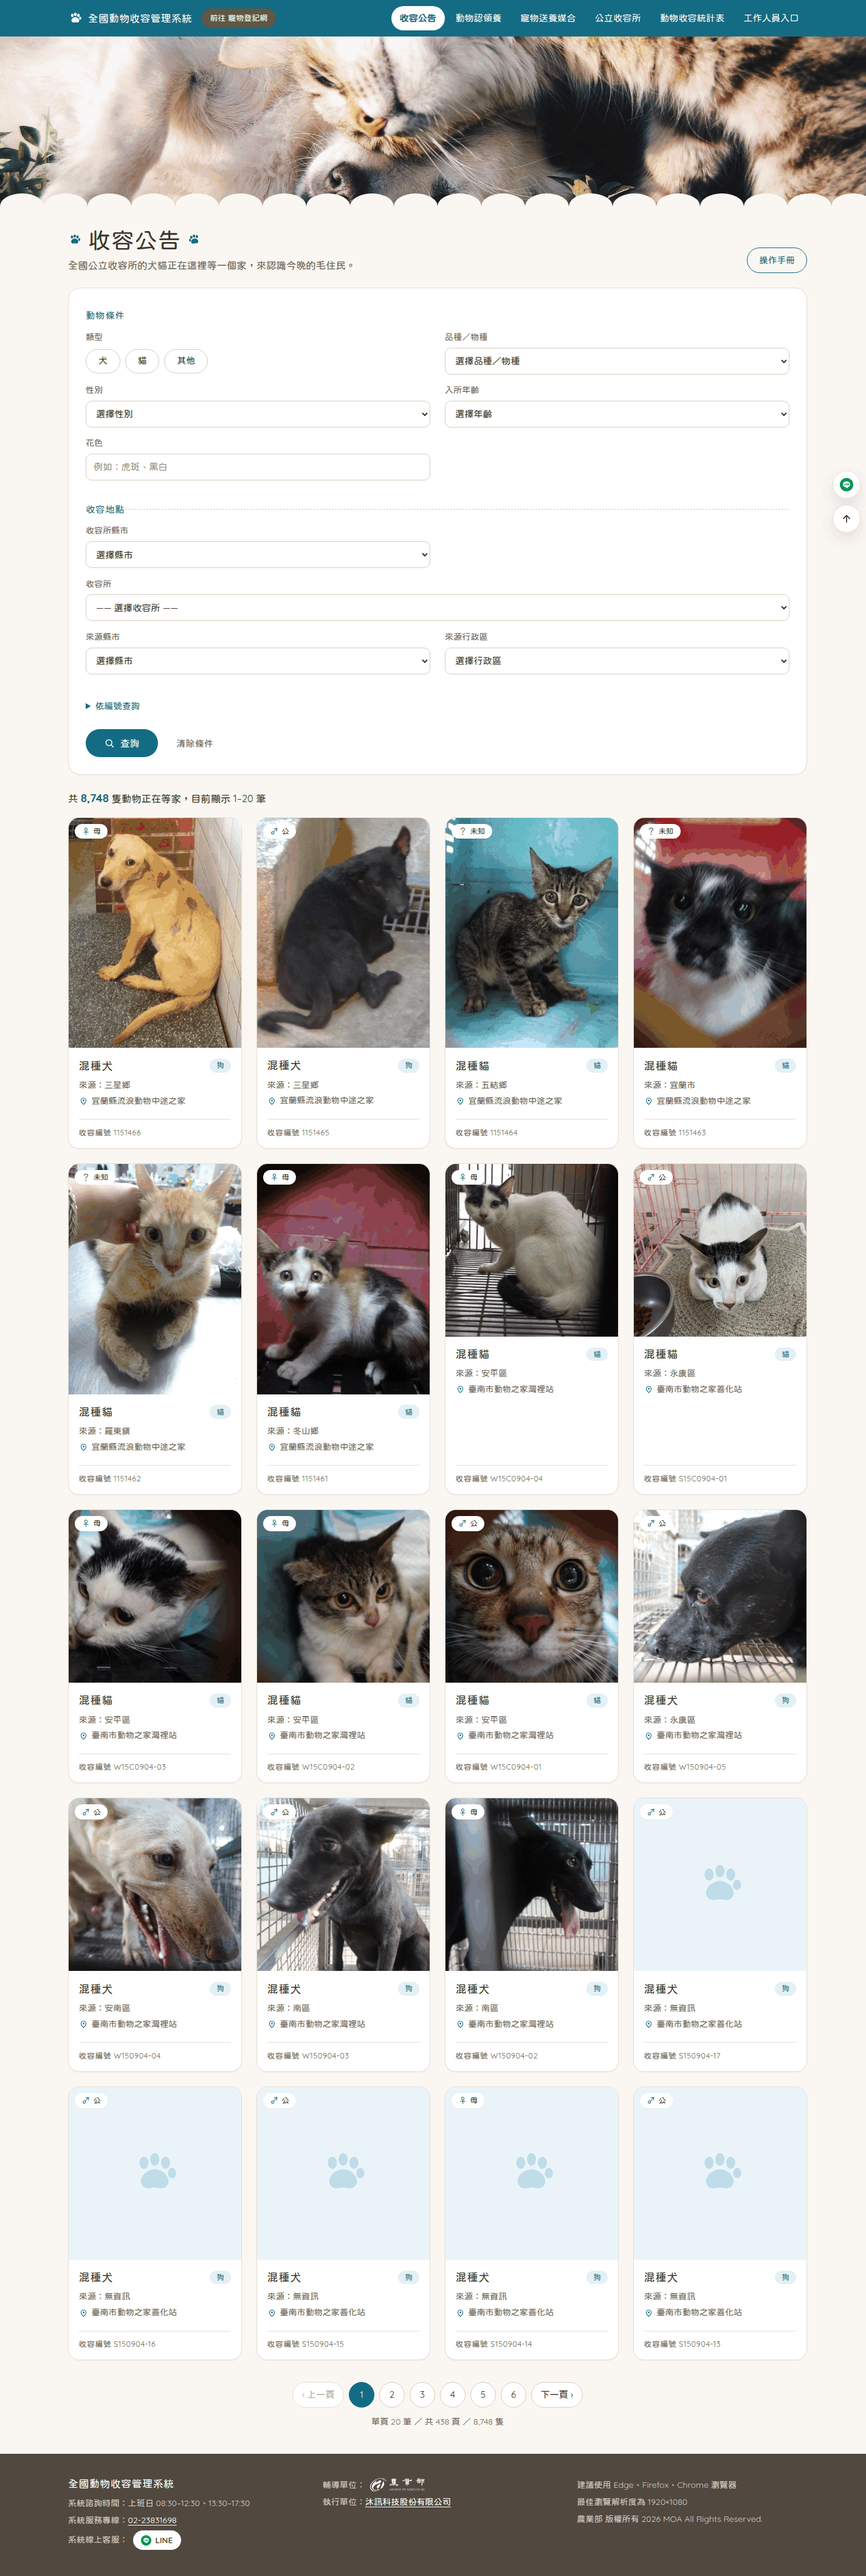
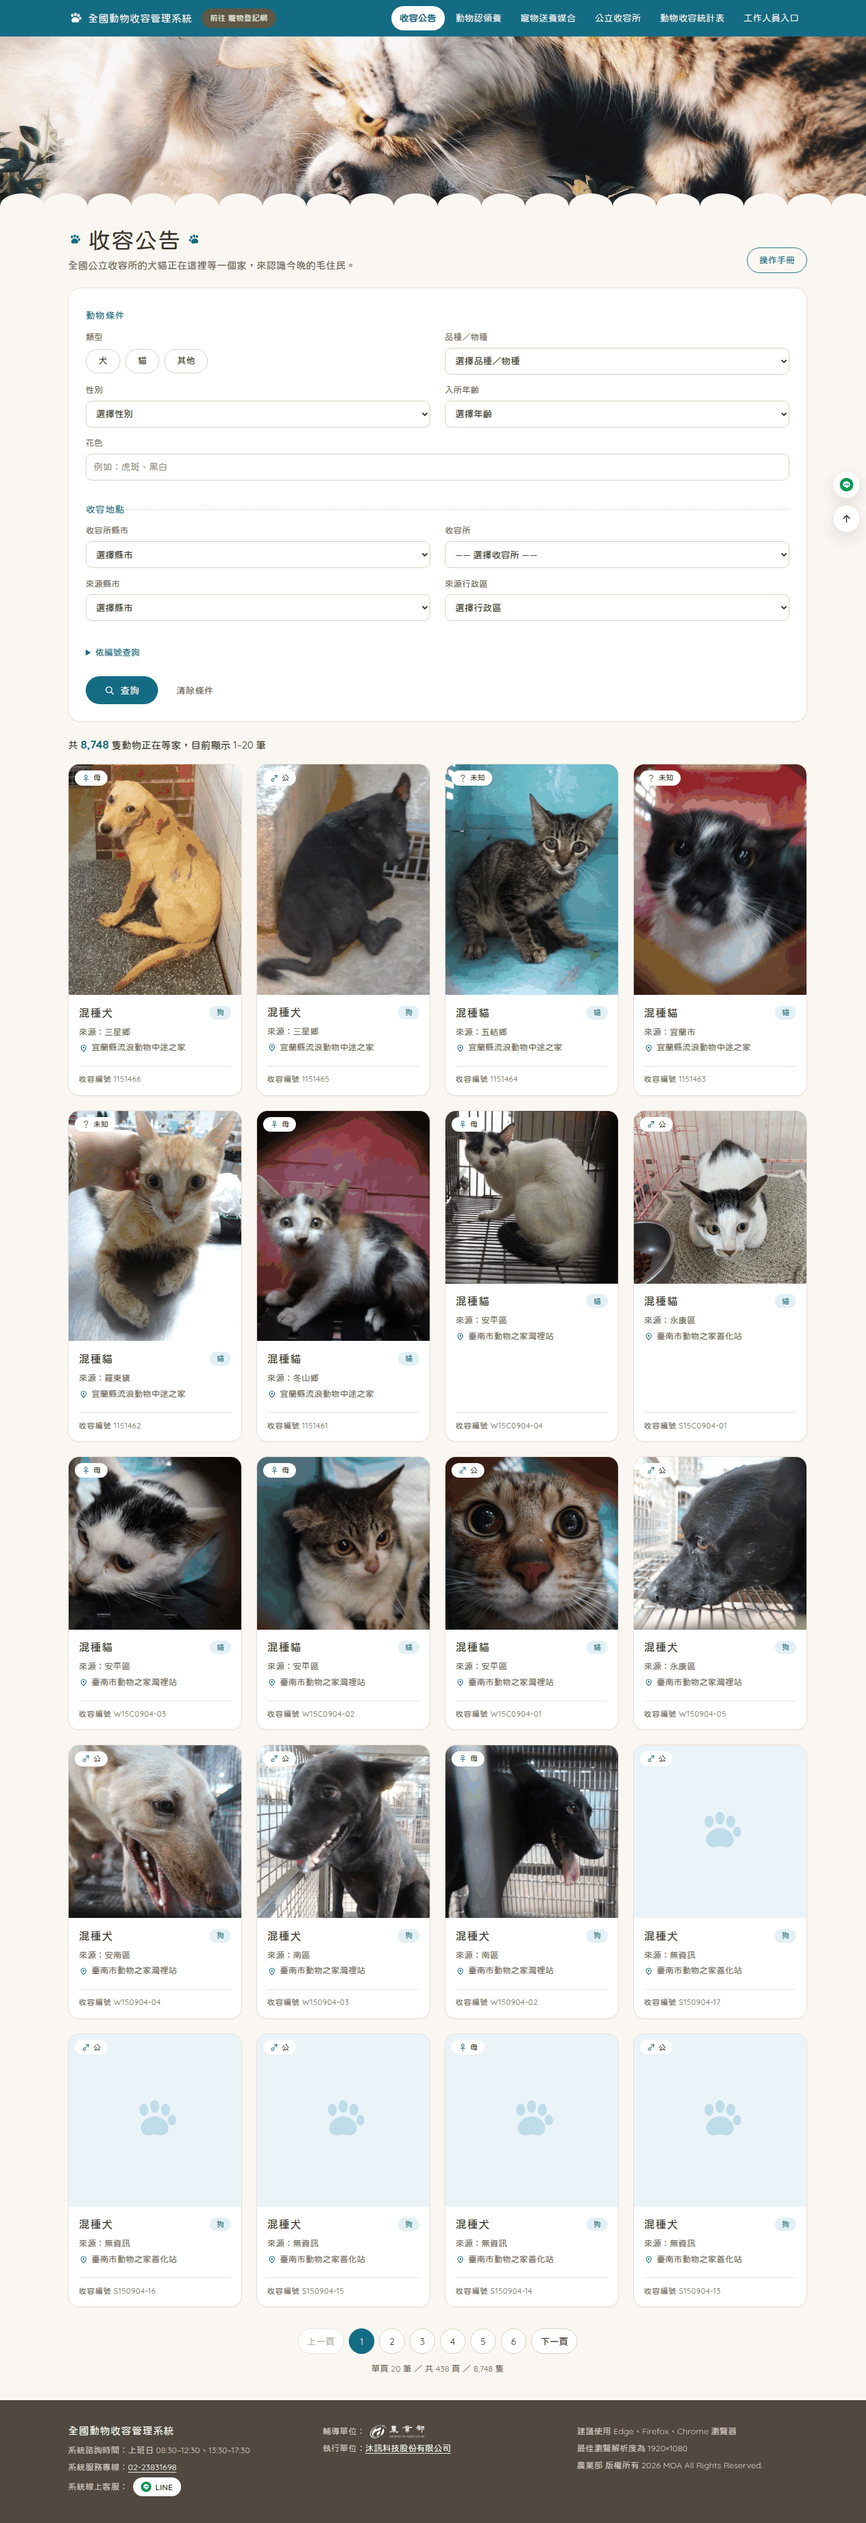
fix(demos): 修正收容公告示範的分頁鈕、行動版選單與表單欄位配對
分頁改為不換行、窄螢幕上前後頁按鈕收成箭頭；行動版漢堡選單
併回品牌同一列，綠色「前往寵物登記網」徽章移入下拉選單；
篩選表單重新配對欄位（收容所不再獨佔寬欄、花色跨滿列），
消除空欄位。重截桌面與手機改造後截圖並更新官網高度屬性。

diff --git a/site/demos/pet/index.html b/site/demos/pet/index.html
@@ -76,7 +76,7 @@
               src="../../demo-assets/pet/desktop-after.png"
               alt="National Animal Shelter System website after the Soft Syntax restyle, full-page capture"
               width="1425"
-              height="4236"
+              height="4149"
               loading="lazy"
               decoding="async"
             />
@@ -109,7 +109,7 @@
               src="../../demo-assets/pet/mobile-after.png"
               alt="National Animal Shelter System mobile view after the Soft Syntax restyle, full-page capture"
               width="780"
-              height="10034"
+              height="9916"
               loading="lazy"
               decoding="async"
             />

diff --git a/site/zh-TW/demos/pet/index.html b/site/zh-TW/demos/pet/index.html
@@ -76,7 +76,7 @@
               src="../../../demo-assets/pet/desktop-after.png"
               alt="全國動物收容管理系統以 Soft Syntax 改造後的整頁截圖"
               width="1425"
-              height="4236"
+              height="4149"
               loading="lazy"
               decoding="async"
             />
@@ -109,7 +109,7 @@
               src="../../../demo-assets/pet/mobile-after.png"
               alt="全國動物收容管理系統以 Soft Syntax 改造後的手機版整頁截圖"
               width="780"
-              height="10034"
+              height="9916"
               loading="lazy"
               decoding="async"
             />

diff --git a/site/zh-TW/index.html b/site/zh-TW/index.html
@@ -321,7 +321,7 @@
             <li>
               <a class="demo-card" href="../demos/pet/">
                 <span class="demo-thumb">
-                  <img src="../demo-assets/pet/desktop-after.png" alt="以 Soft Syntax 改造後的全國動物收容管理系統" width="1425" height="4236" loading="lazy" decoding="async" />
+                  <img src="../demo-assets/pet/desktop-after.png" alt="以 Soft Syntax 改造後的全國動物收容管理系統" width="1425" height="4149" loading="lazy" decoding="async" />
                 </span>
                 <span class="demo-card-body">
                   <span class="demo-card-name">全國動物收容管理系統</span>

diff --git a/site/index.html b/site/index.html
@@ -339,7 +339,7 @@
             <li>
               <a class="demo-card" href="demos/pet/">
                 <span class="demo-thumb">
-                  <img src="demo-assets/pet/desktop-after.png" alt="The restyled national animal shelter listing" width="1425" height="4236" loading="lazy" decoding="async" />
+                  <img src="demo-assets/pet/desktop-after.png" alt="The restyled national animal shelter listing" width="1425" height="4149" loading="lazy" decoding="async" />
                 </span>
                 <span class="demo-card-body">
                   <span class="demo-card-name">National Animal Shelter System</span>
